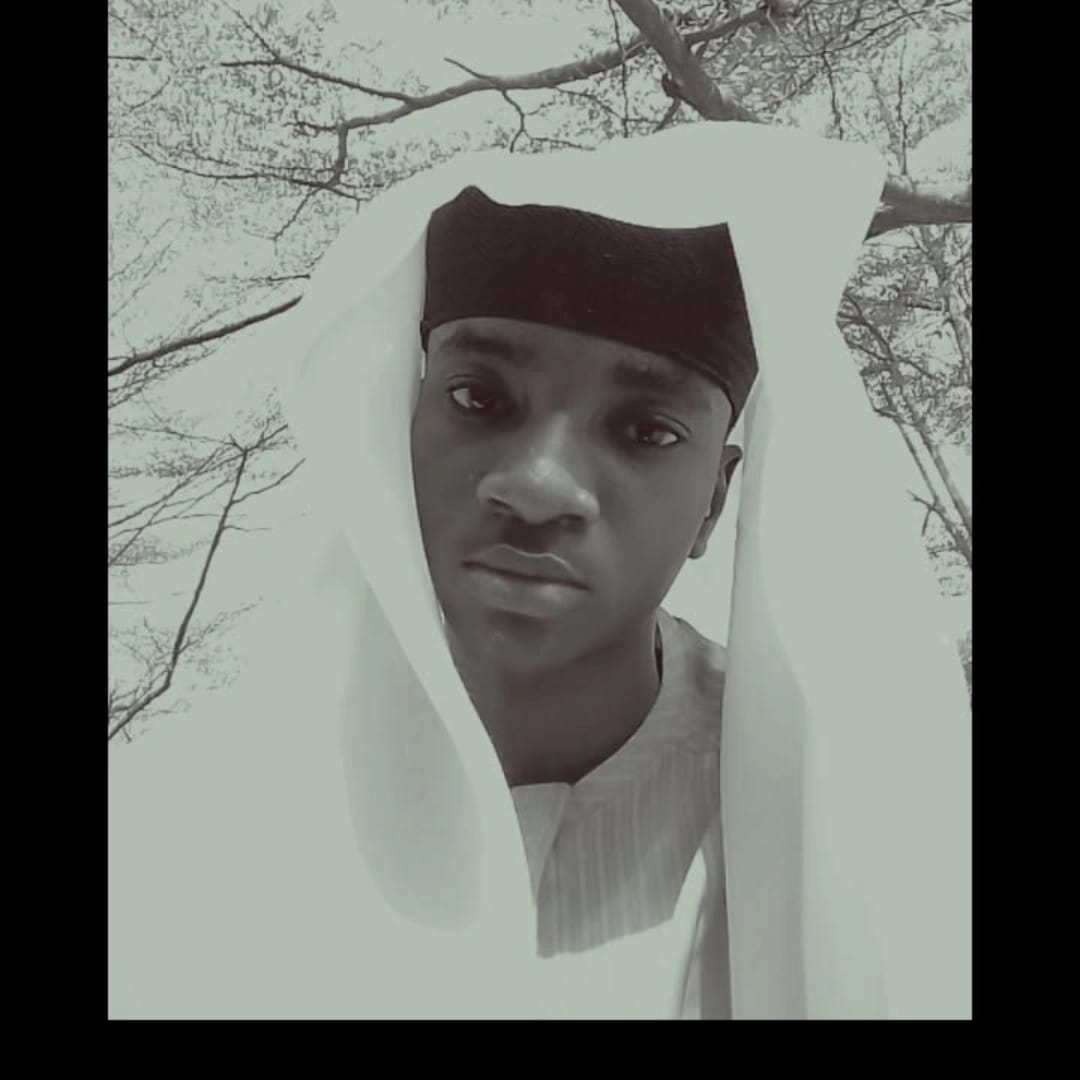
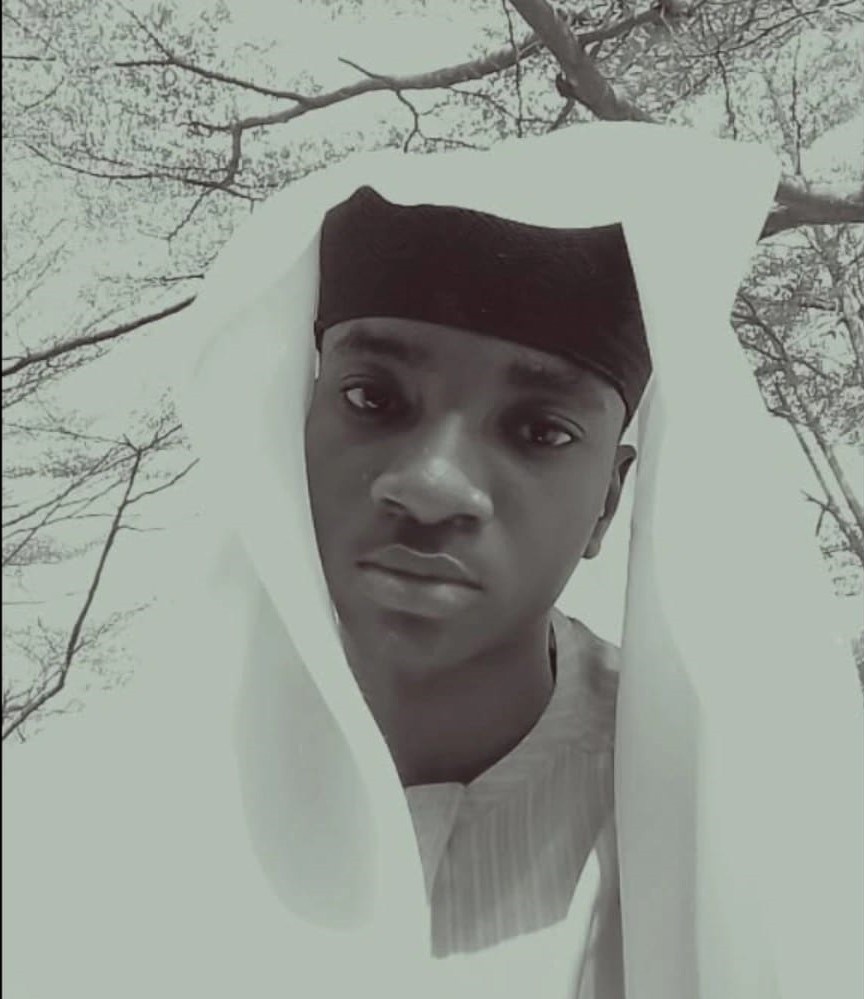
Add Portfolio Website

diff --git a/styles/index.css b/styles/index.css
@@ -10,8 +10,8 @@ body {
       line-height: 1.75;
 }
 
-    /* ── Navbar ── */
-    .nav ul {
+ /*   /* ── Navbar ── */
+   /* .nav ul {
       list-style: none;
       display: flex;
       justify-content: center;
@@ -30,23 +30,203 @@ body {
 
     .nav a:hover {
       color: #00ffcc;
-    }
+    }*/
+
+    /* ============================================
+   NAVIGATION
+   ============================================ */
+nav {
+  background: #0a0a0a;
+  border-bottom: 1px solid rgba(6, 248, 196, 0.18);
+  position: sticky;
+  top: 0;
+  z-index: 100;
+}
+
+.nav-inner {
+  max-width: 1400px;
+  margin: 0 auto;
+  display: flex;
+  align-items: center;
+  justify-content: space-between;
+  padding: 14px 24px;
+}
+
+.nav-logo {
+  display: flex;
+  align-items: center;
+  gap: 14px;
+  text-decoration: none;
+  min-width: 0;
+}
+
+.nav-logo-icon {
+  width: 90px;
+  height: 90px;
+  border-radius: 80%;
+  overflow: hidden;
+  border: 1px solid #00ffcc;
+  flex-shrink: 0;
+}
+
+.nav-logo-icon img {
+  width: 96%;
+  height: 80%;
+  object-fit: cover;
+  transform: scale(1.5);
+}
+
+.nav-logo-text {
+  font-family: 'Cormorant Garamond', serif;
+  font-size: clamp(1.3rem, 2vw, 1.3rem);
+  font-weight: 600;
+  color: #ffffff;
+  letter-spacing: 0.03em;
+  white-space: nowrap;
+}
+
+/* Mobile menu toggle button */
+.nav-toggle {
+  display: none;
+  flex-direction: column;
+  justify-content: center;
+  gap: 5px;
+  width: 40px;
+  height: 40px;
+  background: transparent;
+  border: 1px solid rgba(2, 242, 250, 0.4);
+  border-radius: 6px;
+  cursor: pointer;
+}
+
+.nav-toggle span {
+  display: block;
+  width: 20px;
+  height: 2px;
+  margin: 0 auto;
+  background: #00ffcc;
+  transition: transform 0.25s ease, opacity 0.25s ease;
+}
+
+.nav-toggle.open span:nth-child(1) { transform: translateY(7px) rotate(45deg); }
+.nav-toggle.open span:nth-child(2) { opacity: 0; }
+.nav-toggle.open span:nth-child(3) { transform: translateY(-7px) rotate(-45deg); }
+
+nav ul {
+  display: flex;
+  align-items: center;
+  gap: 32px;
+  list-style: none;
+}
+
+nav ul a {
+  position: relative;
+  text-decoration: none;
+  color: #faf9f5;
+  font-size: 0.95rem;
+  font-weight: 600;
+  letter-spacing: 0.06em;
+  text-transform: uppercase;
+  padding: 8px 0;
+  transition: color 0.25s ease;
+}
+
+nav ul a::after {
+  content: '';
+  position: absolute;
+  left: 0;
+  bottom: 0;
+  width: 0%;
+  height: 1px;
+  background: #00ffcc;
+  transition: width 0.3s ease;
+}
+
+nav ul a:hover,
+nav ul a:focus-visible {
+  color: #f4f1ea;
+}
+
+nav ul a:hover::after,
+nav ul a:focus-visible::after {
+  width: 100%;
+}
+
+@media (max-width: 780px) {
+  .nav-toggle { display: flex; }
+
+  nav ul {
+    position: absolute;
+    top: 100%;
+    left: 0;
+    right: 0;
+    flex-direction: column;
+    align-items: flex-start;
+    gap: 0;
+    background: #0a0a0a;
+    border-bottom: 1px solid rgba(2, 242, 250, 0.18);
+    max-height: 0;
+    overflow: hidden;
+    transition: max-height 0.3s ease;
+  }
+
+  nav ul.open {
+    max-height: 400px;
+  }
+
+  nav ul li {
+    width: 100%;
+  }
+
+  nav ul a {
+    display: block;
+    width: 100%;
+    padding: 16px 24px;
+    border-top: 1px solid rgba(0, 252, 218, 0.08);
+  }
+  .nav-logo-icon img {
+  width: 96%;
+  height: 80%;
+  object-fit: cover;
+  transform: scale(1.5);
+  }
+  .nav-logo-icon {
+  width: 50px;
+  height: 50px;
+  border-radius: 80%;
+  overflow: hidden;
+  border: 1px solid #00ffcc;
+  flex-shrink: 0;
+  }
+  .nav-logo-text{
+    font-size: 0.95rem;
+  }
+}
+
+
 .hero {
   display: flex;
   gap: 40px;
 }
 
 .hero-badge {
-  text-align: center;
-  font-size: 1.9rem;
+  font-size: 1.2rem;
   margin: 50px 0 10px;
-      color: #ffffff;
+  color: #00ffcc;
   font-weight: 700;
 }
 .home {
   margin: 0 auto;
   padding: 30px 20px;
   max-width: 2100px;
+}
+.hero-inner {
+  display: grid;
+  grid-template-columns: (repeat(auto-fit, minmax(300px, 1fr));
+}
+.hero-inner .img-badge {
+  height: 10%;
+  width: 10%;
 }
 
 .hero-content{

diff --git a/index.html b/index.html
@@ -3,36 +3,52 @@
 <head>
   <meta charset="UTF-8">
   <meta name="viewport" content="width=device-width, initial-scale=1.0">
-  <title>Home Amoo Anas</title>
+  <title>Anas Amoo</title>
   <link rel="stylesheet" href="styles/index.css"/>
+  <link rel="icon" type="images/jpeg" href="images/anas.jpeg">
+
 </head>
 <body>
 
     <div class="home">
 
   <!-- NAV -->
-  <nav class="nav">
-    <div class="nav-logo">AA</div>
-    <ul class="nav-links">
+  <nav>
+  <div class="nav-inner">
+    <a href="index.html" class="nav-logo">
+      <div class="nav-logo-icon">
+        <img src="images/anas.jpeg" alt="Anas Amoo Logo">
+      </div>
+      <div class="nav-logo-text"><strong>BUILDWITHANAS</strong></div>
+    </a>
+
+    <button class="nav-toggle" id="navToggle" aria-label="Toggle navigation menu" aria-expanded="false" aria-controls="navMenu">
+      <span></span>
+      <span></span>
+      <span></span>
+    </button>
+
+    <ul id="navMenu">
       <li><a href="index.html" class="active">Home</a></li>
-      <li><a href="about.html">About Me</a></li>
-      <li><a href="skills.html">Skills</a></li>
-      <li><a href="projects.html">Projects</a></li>
-      <li><a href="contact.html">Contact Me</a></li>
+      <li><a href="gallery.html" class="active">Gallery</a></li>
+      <li><a href="services.html" class="active">Services</a></li>
+      <li><a href="contacts.html" class="active">Contact</a></li>
     </ul>
-    <a href="contact.html" class="nav-cta">Get In Touch</a>
-  </nav>
+  </div>
+</nav>
+
 
     <!-- HERO -->
   <section class="hero">
   <div class="hero-inner">
-    <div class="hero-badge"><h1>Frontend Developer & <br> Aspiring Software Engineer</h1></div>
+    <div class="hero-badge"><h3>Website Developer | Software Developer</h3></div>
+    <div class="img-badge"><img src="images/img.jpeg" alt="Anas Amoo"/></div>
 
     <div class="hero-content">
-      <h1>
+      <h4>
         Hi, I'm <span class="accent">Anas</span>.<br>
         I build responsive websites and interactive web experiences.
-      </h1>
+      </h4>
     </div>
 
     <p class="hero-desc">
@@ -151,6 +167,45 @@
     </a>
   </div>
 </footer>
+
+
+<script>
+  // Mobile nav toggle
+  const navToggle = document.getElementById('navToggle');
+  const navMenu = document.getElementById('navMenu');
+
+  navToggle.addEventListener('click', () => {
+    const isOpen = navMenu.classList.toggle('open');
+    navToggle.classList.toggle('open', isOpen);
+    navToggle.setAttribute('aria-expanded', isOpen);
+  });
+
+  navMenu.querySelectorAll('a').forEach(link => {
+    link.addEventListener('click', () => {
+      navMenu.classList.remove('open');
+      navToggle.classList.remove('open');
+      navToggle.setAttribute('aria-expanded', 'false');
+    });
+  });
+
+  // Scroll reveal
+  document.addEventListener('DOMContentLoaded', () => {
+    const revealEls = document.querySelectorAll('.reveal');
+    if (!('IntersectionObserver' in window)) {
+      revealEls.forEach(el => el.classList.add('reveal-active'));
+      return;
+    }
+    const observer = new IntersectionObserver((entries) => {
+      entries.forEach(entry => {
+        if (entry.isIntersecting) {
+          entry.target.classList.add('reveal-active');
+          observer.unobserve(entry.target);
+        }
+      });
+    }, { threshold: 0.15 });
+    revealEls.forEach(el => observer.observe(el));
+  });
+</script>
 </body>
 </html>
 

diff --git a/styles/about.css b/styles/about.css
@@ -347,3 +347,7 @@
       .nav ul { gap: 18px; font-size: 0.9rem; }
     }
 
+    .hero-inner {
+      display: grid;
+  grid-template-columns: repeat(auto-fit, minmax(220px, 1fr));
+    }
